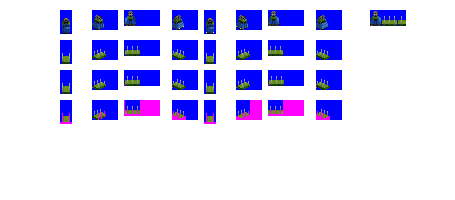
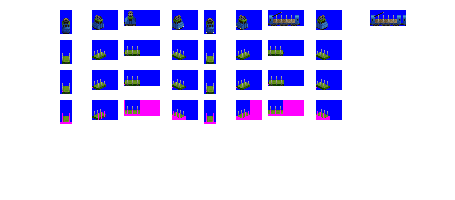
Change: adjusted flatbed trams

Changed region(s): [[0.5846, 0.06, 0.6769, 0.15], [0.8, 0.06, 0.8923, 0.15]]

diff --git a/src/vehicles/stancliffe.py b/src/vehicles/stancliffe.py
@@ -9,17 +9,12 @@ consist = FlatBedHauler(id = 'stancliffe',
                 vehicle_life = 40,
                 intro_date = 1940)
 
-consist.add_unit(weight = 20,
-                capacity = 0,
-                vehicle_length = 3,
+consist.add_unit(weight = 14,
+                capacity = 30,
+                vehicle_length = 8,
+                cargo_length = 3,
                 effects = ['EFFECT_SPRITE_ELECTRIC, 0, 0, 10'],
-                always_use_same_spriterow = True)
-
-consist.add_unit(weight = 5,
-                capacity = 18,
-                vehicle_length = 4,
-                cargo_length = 4,
-                repeat = 4)
+                repeat = 2)
 
 consist.add_model_variant(intro_date=0,
                        end_date=global_constants.max_game_date,

diff --git a/src/vehicles/rackwood.py b/src/vehicles/rackwood.py
@@ -9,17 +9,12 @@ consist = FlatBedHauler(id = 'rackwood',
                 vehicle_life = 40,
                 intro_date = 1900)
 
-consist.add_unit(weight = 20,
-                capacity = 0,
-                vehicle_length = 3,
+consist.add_unit(weight = 14,
+                capacity = 30,
+                vehicle_length = 8,
+                cargo_length = 3,
                 effects = ['EFFECT_SPRITE_ELECTRIC, 0, 0, 10'],
-                always_use_same_spriterow = True)
-
-consist.add_unit(weight = 5,
-                capacity = 20,
-                vehicle_length = 4,
-                cargo_length = 4,
-                repeat = 3)
+                repeat = 2)
 
 consist.add_model_variant(intro_date=0,
                        end_date=global_constants.max_game_date,
